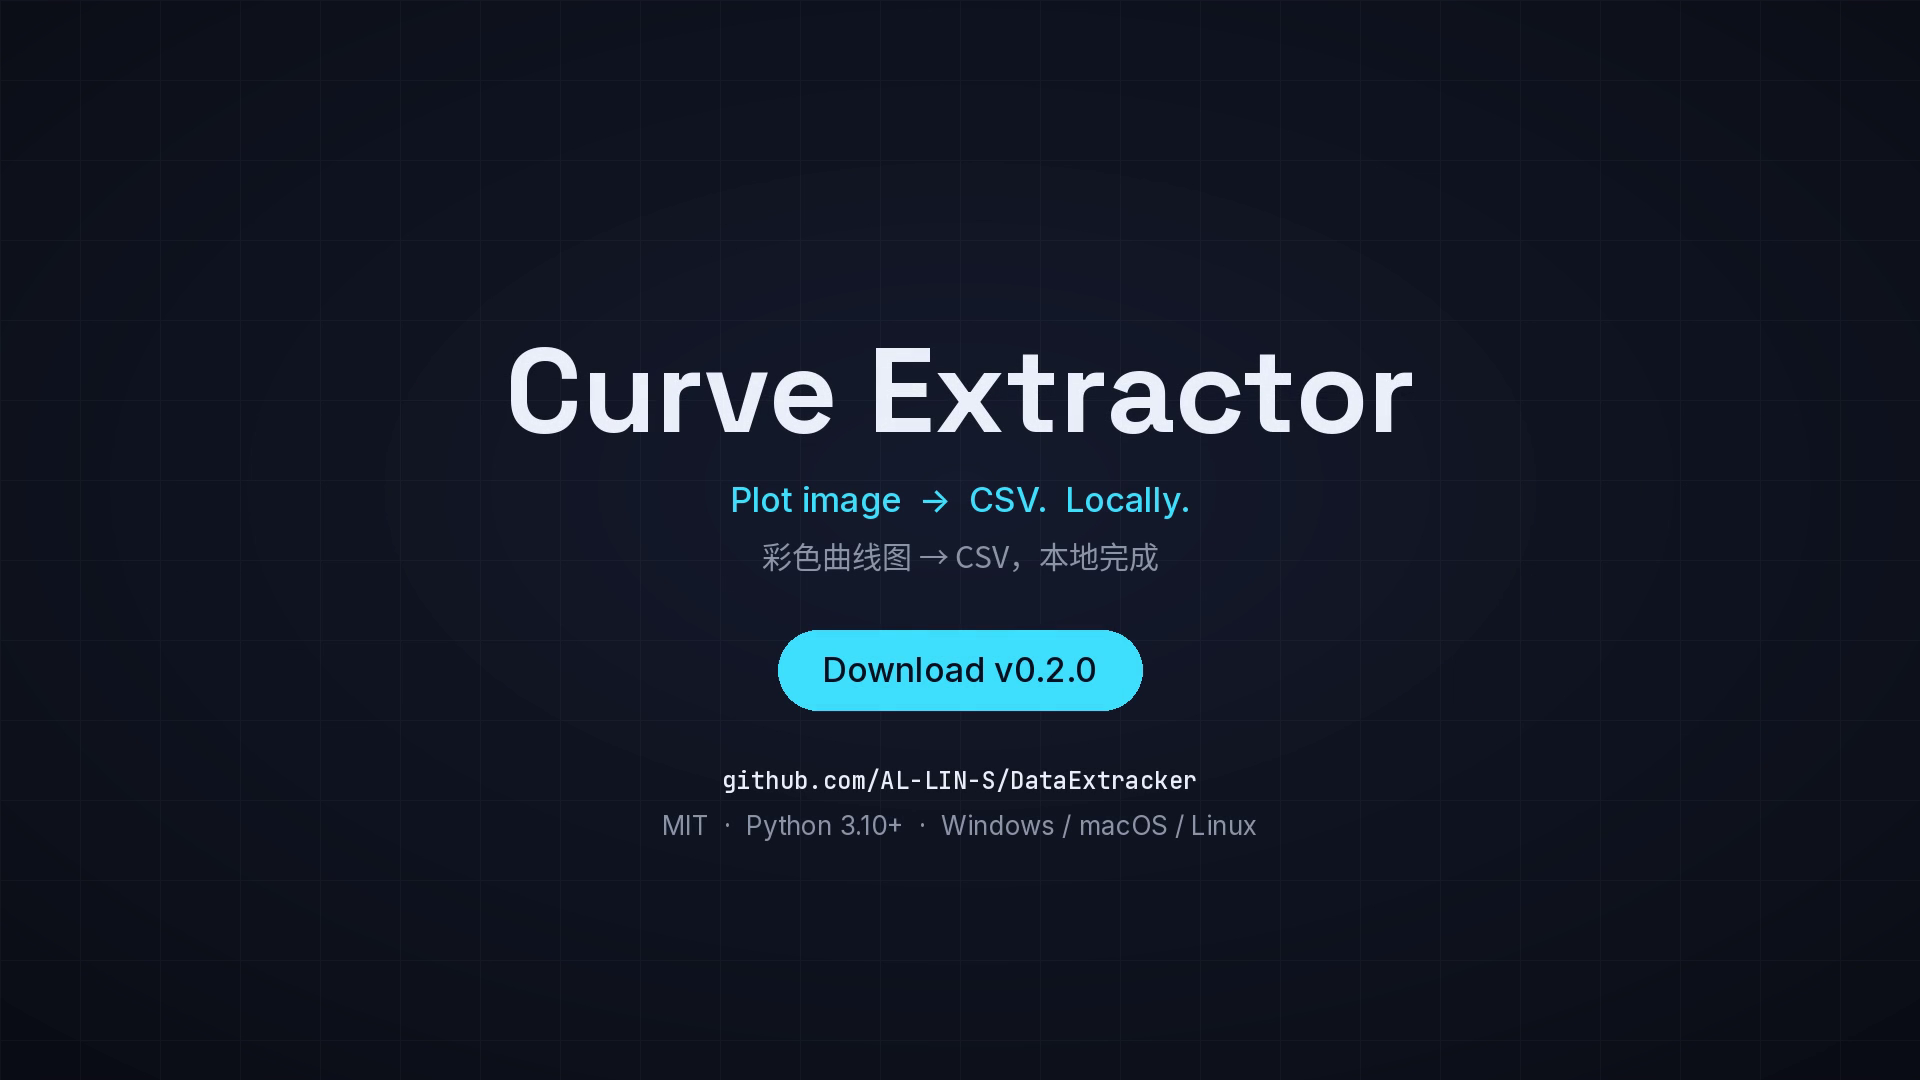
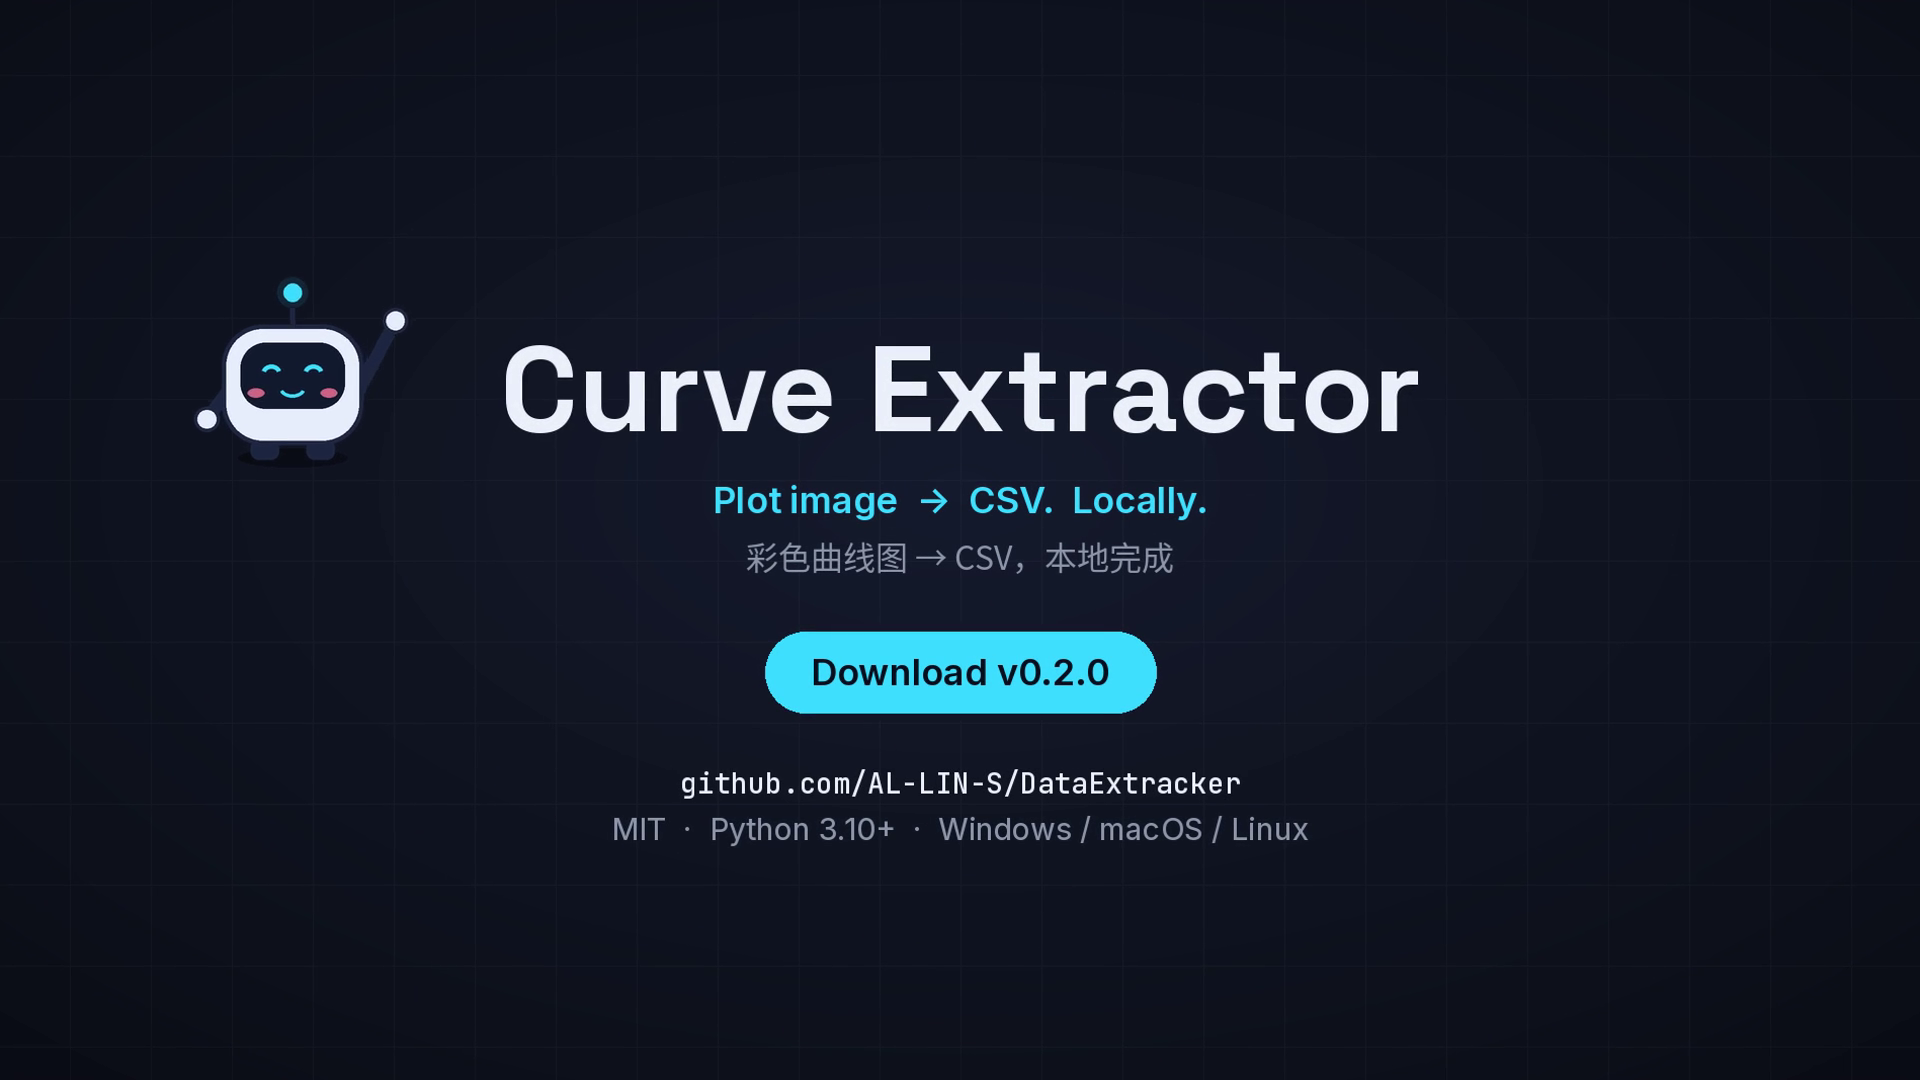
docs: update motion demo v2 (mascot, voiceover) poster and preview

diff --git a/README.md b/README.md
@@ -6,7 +6,7 @@
 
 [![Curve Extractor motion demo](docs/media/motion-preview.gif)](https://github.com/AL-LIN-S/DataExtracker/releases/download/v0.2.0/DataExtracker-motion.mp4)
 
-▶ [Watch the 40 s 1080p video (MP4)](https://github.com/AL-LIN-S/DataExtracker/releases/download/v0.2.0/DataExtracker-motion.mp4) · [Download v0.2.0](https://github.com/AL-LIN-S/DataExtracker/releases/tag/v0.2.0)
+▶ [Watch the 42 s 1080p video with voiceover (MP4)](https://github.com/AL-LIN-S/DataExtracker/releases/download/v0.2.0/DataExtracker-motion.mp4) · [Download v0.2.0](https://github.com/AL-LIN-S/DataExtracker/releases/tag/v0.2.0)
 
 
 <p align="center">
